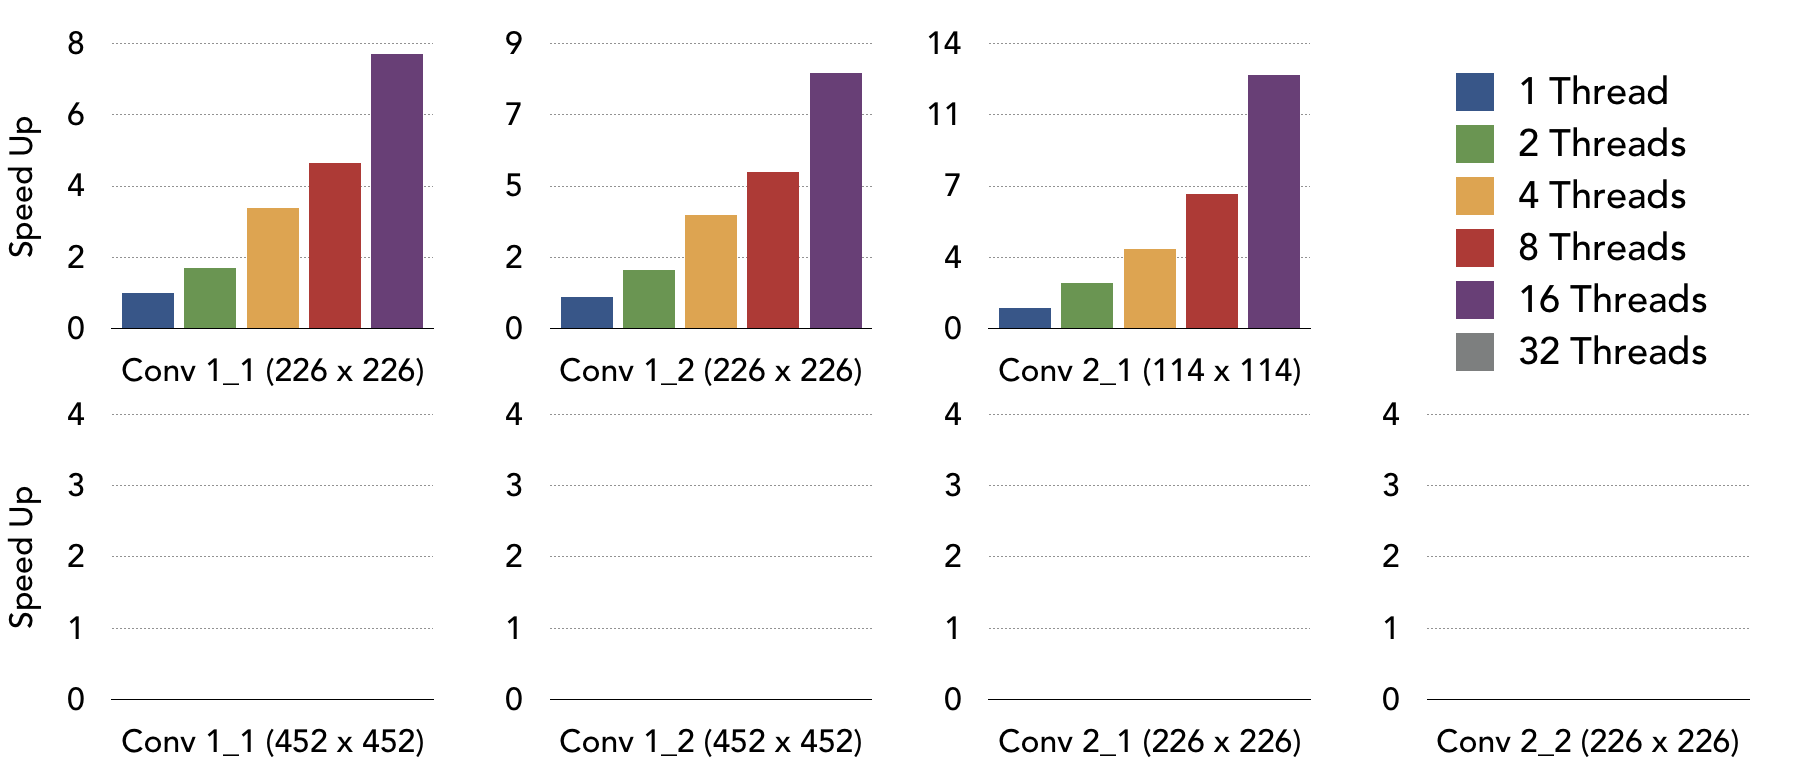
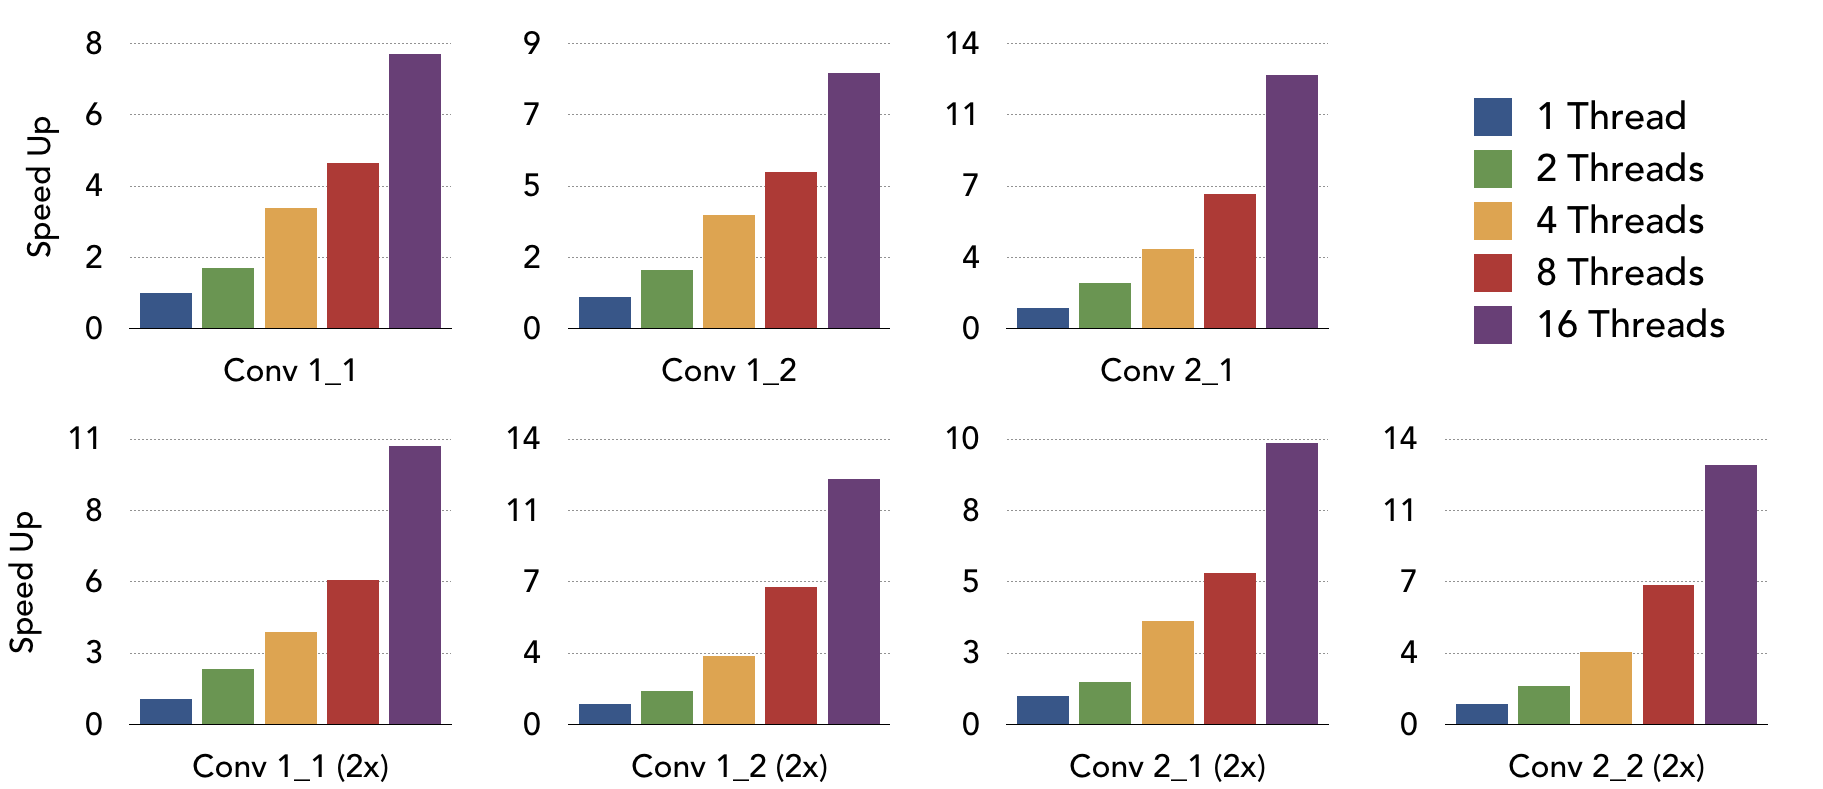
Adding all the results

diff --git a/report/report.tex b/report/report.tex
@@ -245,19 +245,23 @@ for $b$ in [0, $B$]:
     \label{fig:conv_algo}
 \end{figure}
 
-\textbf{Sparsity}
-
-\textbf{Data Layout and Alignment}
+Line 13 skips the filtering operation at the locations where it need not be
+computed. The tiling and the loop ordering ensures that skipping the filtering
+at the designated spatial locations has minimal overhead. We implemented a
+version which skipped work at the level of tiles but did not see additional
+benefits. The data layout of the tensors $W$ and $I$ is changed so that the
+vector loads are from a contiguous memory locations. The memory allocation for
+all the tensors are also aligned to 64 bytes for effective SIMD code generation.
 
 \section{Evaluation}
-We compare our sparse convolutation technique against two highly optimized
-implementations: FALCON~\cite{falcon} and Tensorflow~\cite{tensorflow}.
-FALCON is an efficient and fast indirect Winograd convolution implementation 
-that utilizes optimized Intel libraries; Tensorflow is a popular and high 
-performance deep learning framwork. We used pre-built Tensorflow packages
-instead of compiling from source. We use convolutional layer configurations 
-with large spatial resolution from the VGG architecture~\cite{simonyan2014very}. 
-The specific configurations of the convolution operations are listed in
+We compare our sparse convolution algorithm against two highly optimized
+implementations: FALCON~\cite{falcon} and Tensorflow~\cite{tensorflow}.  FALCON
+is an efficient and fast indirect Winograd convolution implementation that
+utilizes optimized Intel libraries; Tensorflow is a popular and high performance
+deep learning framework. We used pre-built Tensorflow packages instead of
+compiling from source. We use convolutional layer configurations with large
+spatial resolution from the VGG architecture~\cite{simonyan2014very}.  The
+specific configurations of the convolution operations are listed in
 Table~\ref{tab:conv_config}. As mentioned earlier, we use the latest icc (Intel
 C Compiler) compiler for compiling both our implementation and the FALCON
 library. 
@@ -269,7 +273,19 @@ operation on eight single-precision floating point numbers simultaneously.
 The CPU can retire one \texttt{add} and one \texttt{mul} operation per cycle,
 thus yielding a theoretical 464 GFLOPS.
 
-\begin{table}[h]\centering
+Figure~\ref{fig:falcon_tf} shows the relative speed up of our sparse convolution
+and FALCON relative to tensorflow. Both FALCON and tensorflow are dense
+convolution implementations and do not leverage spatial sparsity. For the
+purpose of the experiments the sparse mask $M$ is generated randomly with the
+desired level of sparsity. Sparsity in real world data exhibits block structure
+which could lead to further improvement but we do not explore such patterns in
+this project. As the figure shows sparse convolution is much faster compared to
+dense convolution in tensorflow and also offers significant performance
+improvements over FALCON at higher levels of sparsity. On feature maps with
+higher resolution (2x) sparse convolution shows even better gains relative to
+the dense implementation.
+
+\begin{table}[t]\centering
 \small
 \begin{tabularx}{0.75\textwidth}{Xcccccc}\toprule
     Layer Name & $C$ & $K$ & $H$ & $W$ & $F_h$ & $F_w$\\ \midrule 
@@ -293,10 +309,15 @@ thus yielding a theoretical 464 GFLOPS.
 \begin{figure}[t]
 	\centering
 	\includegraphics[width=\textwidth]{falcon_tf}
-    \label{fig:falcon_tf}
+    \caption{Speed up of our sparse convolution and FALCON relative to
+    tensorflow implementation at different levels of sparsity. Note that both
+    FALCON and tensorflow are dense convolutions. At higher levels of sparsity
+    sparse convolution is much faster than vanilla tensorflow and a significant
+    improvement over the highly optimized FALCON library.}
+\label{fig:falcon_tf}
 \end{figure}
 
-\begin{figure}[t]
+\begin{figure}
 	\centering
 	\includegraphics[width=\textwidth]{scaling}
     \label{fig:scaling}
